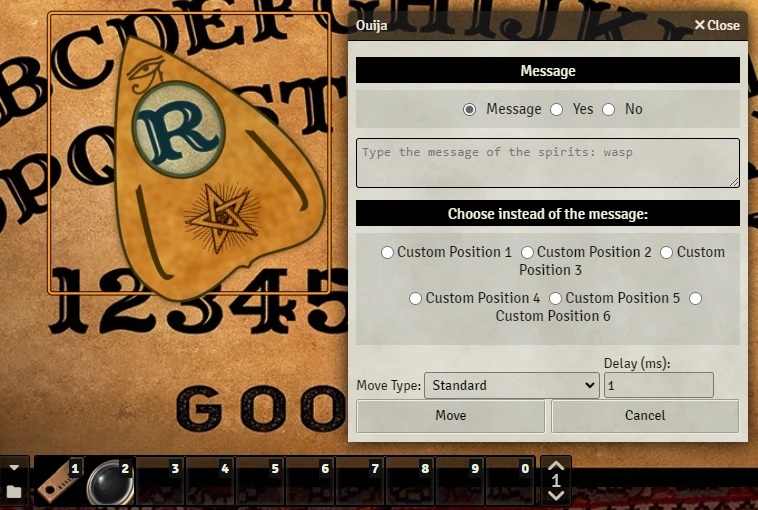
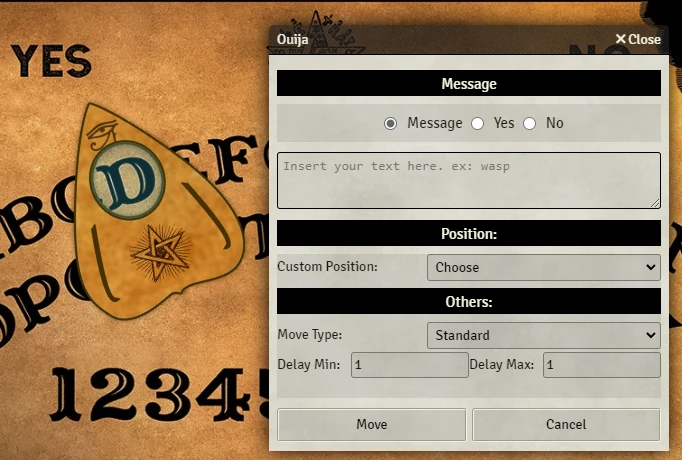
0.1.3

diff --git a/templates/main_dialog.html b/templates/main_dialog.html
@@ -1,94 +1,96 @@
 <style>   
    .titulo {
-   background-color: black;
-   height: 26px;
-   color: beige;
-   font-size: 15px;
-   font-weight: 400;
-   text-align: center;
-   padding-top: 5px;
+     background-color: black;
+     height: 26px;
+     color: beige;
+     font-size: 15px;
+     font-weight: 400;
+     text-align: center;
+     padding-top: 5px;
    }
+   
    .boxcheck {
-   text-align: center;
-   justify-content: center;
-   margin-left: 5px;
-   font-size: 15px;
-   padding: 10px;
+     text-align: center;
+     justify-content: center;
+     margin-left: 5px;
+     font-size: 15px;
+     padding: 10px;
    }
+   
    .boxcheckpai {
-   background-color: rgba(107, 107, 107, 0.166);
-   height: auto;
-   margin-bottom: 10px;
+     background-color: rgba(107, 107, 107, 0.166);
+     height: auto;
+     margin-bottom: 10px;
    }
+   
    .containerform {
-   display: flex;
+    display: flex;
    }
+   
    .containerduo {
-   height: 50%;
-   display: inline-block;
+     height: 50%;
+     display: inline-block;
    }
 </style>
 
 <div class="divTableRow">
-   <div class="divTableCell">
-      <p class="titulo">Message</p>
-      <div class="boxcheckpai">
-         <div class="boxcheck">
-            <input type="radio" id="position_yes" name="extra_position" value="message" checked> 	&nbsp;  Message
-            <input type="radio" id="position_yes" name="extra_position" value="position_yes">  	&nbsp; Yes
-            <input type="radio" id="position_no" name="extra_position" value="position_no">  	&nbsp; No
-         </div>
-      </div>
-      <textarea name="text" id="message" cols="20" rows="2" placeholder="Type the message of the spirits: wasp"></textarea>
-   </div>
-   
-   <p class="titulo">Choose instead of the message:</p>
+
+<div class="divTableCell">
+   <p class="titulo">Message</p>
    <div class="boxcheckpai">
-      <div class="boxcheck" >
-         <input type="radio" id="position_01" name="extra_position" value="position_01">
-         <label for="support_1">Custom Position 1</label>
-         <input type="radio" id="position_02" name="extra_position" value="position_02">
-         <label for="support_1">Custom Position 2</label>
-         <input type="radio" id="position_03" name="extra_position" value="position_03">
-         <label for="support_1">Custom Position 3</label>
-         <div class="boxcheck">
-            <input type="radio" id="position_04" name="extra_position" value="position_04">
-            <label for="support_1">Custom Position 4</label>
-            <input type="radio" id="position_05" name="extra_position" value="position_05">
-            <label for="support_1">Custom Position 5</label>
-            <input type="radio" id="position_06" name="extra_position" value="position_06">
-            <label for="support_1">Custom Position 6</label>
-         </div>
+      <div class="boxcheck">
+         <input type="radio" id="position_message" name="extra_position" value="message" checked style="cursor: pointer;"> 	&nbsp;  
+         <label for="position_message" style="cursor: pointer;"> Message </label>
+         <input type="radio" id="position_yes" name="extra_position" value="position_yes" style="cursor: pointer;">  	&nbsp; 
+         <label for="position_yes" style="cursor: pointer;"> Yes </label>
+         <input type="radio" id="position_no" name="extra_position" value="position_no" style="cursor: pointer;">  	&nbsp; 
+         <label for="position_no" style="cursor: pointer;"> No </label>
       </div>
    </div>
+   <textarea name="text" id="message" cols="20" rows="3" placeholder="Insert your text here. ex: wasp "></textarea>
 </div>
 
-</div>
-</div>
-</label>
-</div>
-</div>
-
-<div>
-
-   <div class="containerduo">
-      <form>
-         <label for="movetype" style="margin-bottom: 8px;">Move Type:</label>             
-            <select id="movetype">
-               <option value="moveType1">Standard</option>
-               <option value="moveType2">No Sound/No Animation</option>
-               <option value="moveType3">Animation at End</option>
-            </select>
-      </form>
-   </div>
+<p class="titulo">Position:</p>
+<div class="boxcheckpai">
+   <form>
+      <div class="form-group">
+         <label style="text-align:left;">Custom Position:</label>
+         <select id="custom_position" name="custom_position" style="cursor: pointer;">
+            <option value="custom_position_choose">Choose</option>
+            <option value="position_01">Custom Position 1</option>
+            <option value="position_02">Custom Position 2</option>
+            <option value="position_03">Custom Position 3</option>
+            <option value="position_04">Custom Position 4</option>
+            <option value="position_05">Custom Position 5</option>
+            <option value="position_06">Custom Position 6</option>
+         </select>
+      </div>
+   </form>
    
-   <div class="containerduo">
-     <form>
-       <label">Delay (ms):</label>
-       <input id="extraTime" type="number" min="1" max="3000" value="1"> 
-     </form>
-   </div>
+   <p class="titulo">Others:</p>
+   <form>
+      <div class="form-group">
+         <label style="text-align:left;">Move Type: </label>
+         <select id="movetype" name="movetype"style="cursor: pointer;">
+            <option value="moveType1">Standard</option>
+            <option value="moveType2">No Sound/No Animation</option>
+            <option value="moveType3">Animation at End</option>
+            \     
+         </select>
+      </div>
+   </form>
    
-</div>
-
+   <form>
+      <div class="form-group">
+         <label>Delay Min:</label>
+         <input id="extraTimeMin" type="number" name="extraTimeMin" style="cursor: auto;" value="1" min="1" max="10000" placeholder="miliseconds"
+            required>
+         <label> Delay Max:</label>
+         <input id="extraTimeMax" type="number" name="extraTimeMax" style="cursor: auto;" value="1" min="1" max="10000" placeholder="miliseconds"
+            required>            
+      </div>
+      &nbsp;
+      <br>
+   </form>
+   
 </div>

diff --git a/scripts/ouija.js b/scripts/ouija.js
@@ -1,5 +1,7 @@
 let ouija_map;
 let ouija_token;
+let extraTimeMin=1;
+let extraTimeMax=1;
       
 // const ouija = game.modules.get('ouija-board-for-sequencer')?.api.ouija;
 export class ouija {
@@ -88,29 +90,34 @@ export class ouija {
 
   static async moveThing(html) {
     let msg = '';
+    const messageType = html.find('input[name="extra_position"]:checked')[0].value; // message, position_yes, position_no
+    const autoMessage = html.find("#message")[0].value;
+    extraTimeMin = parseInt( html.find("#extraTimeMin")[0].value );
+    extraTimeMax = parseInt( html.find("#extraTimeMax")[0].value );
+    const moveType = html.find('#movetype')[0].value; // Standard, No Sound/No Animation, Animation at End
+    const customPosition = html.find('#custom_position')[0].value; // custom_position_choose, position_01, ..., position_06
 
-    const moveType = html.find('#movetype')[0].value;
-    let autoMessage = html.find("#message")[0].value;
-    let extraTime = html.find("#extraTime")[0].value;
-    let messageType = html.find('input[name="extra_position"]:checked')[0].value;
-
-    if (messageType == 'message') { // Message
-      this.sendMessage(autoMessage.toLowerCase(), moveType, extraTime);
-    } else { // Custom Position
-      this.sendToPosition(messageType.toLowerCase(), moveType, extraTime);
+    if (messageType=='message' && customPosition=='custom_position_choose' ) { // Message
+      this.sendMessage(autoMessage.toLowerCase(), moveType);
+    } else { // 
+      if ( customPosition!='custom_position_choose' ) {
+        this.sendToPosition(customPosition.toLowerCase(), moveType);
+      } else {
+        this.sendToPosition(messageType.toLowerCase(), moveType);
+      }
     }
   }
 
-  static async sendMessage(text, moveType, extraTime = 1) {
+  static async sendMessage(text, moveType) {
     let message = text.split('');
 
     for (let index = 0; index < message.length; index++) {
       const letter = message[index];
-      const output = await this.sendToPosition(letter, moveType, extraTime);
+      const output = await this.sendToPosition(letter, moveType);
     }
   }
 
-  static async sendToPosition(letter, moveType, extraTime = 1) {    
+  static async sendToPosition(letter, moveType) {    
     if (moveType == 'moveType1') { // Standard - sound / no animation
       const output = await this.movePattern1(letter); 
     } else if (moveType == 'moveType2') { // no sound / no animation
@@ -125,7 +132,7 @@ export class ouija {
     const ouija = game.modules.get('ouija-board-for-sequencer')?.api.ouija;
     ouija.movePattern1(position, extraTime);
   */
-  static async movePattern1(position, extraTime = 1) {    
+  static async movePattern1(position) {    
     const soundToPlay = game.settings.get("ouija-board-for-sequencer", "move_sound");
     const sound_volume = game.settings.get("ouija-board-for-sequencer", "move_sound_volume")
     const xyPosition = this.sceneMap(position);
@@ -146,7 +153,7 @@ export class ouija {
       .sound(soundToPlay)
         .volume(sound_volume)
       .wait(200)
-      .wait(extraTime);
+      .wait(extraTimeMin, extraTimeMax);
 
     await sequence.play();
   }
@@ -156,7 +163,7 @@ export class ouija {
     const ouija = game.modules.get('ouija-board-for-sequencer')?.api.ouija;
     ouija.movePattern2(position, extraTime);
   */
-  static async movePattern2(position, extraTime = 1) {
+  static async movePattern2(position) {
     const xyPosition = this.sceneMap(position);
     
     let sequence = new Sequence()
@@ -172,7 +179,7 @@ export class ouija {
       })
 
       .waitUntilFinished()
-      .wait(extraTime);
+      .wait(extraTimeMin, extraTimeMax);
 
     await sequence.play();
   }
@@ -182,7 +189,7 @@ export class ouija {
   const ouija = game.modules.get('ouija-board-for-sequencer')?.api.ouija;
   ouija.movePatternEnd();
   */    
-  static async movePatternAnimationEnd(position, extraTime = 1) {
+  static async movePatternAnimationEnd(position) {
     const soundToPlay = game.settings.get("ouija-board-for-sequencer", "end_move_sound");
     const sound_volume = game.settings.get("ouija-board-for-sequencer", "end_move_sound_volume")
     const animationEnd = game.settings.get("ouija-board-for-sequencer", "end_animation");
@@ -208,7 +215,7 @@ export class ouija {
         .scale(0.55)
       .waitUntilFinished()
 
-      .wait(extraTime);
+      .wait(extraTimeMin, extraTimeMax);
 
     await sequence.play();
   }

diff --git a/CHANGELOG.md b/CHANGELOG.md
@@ -1,3 +1,8 @@
+# 0.1.3
+- dialog css
+- min/max time 
+- docs
+
 # 0.1.2
 - docs
 - dialog fix?
